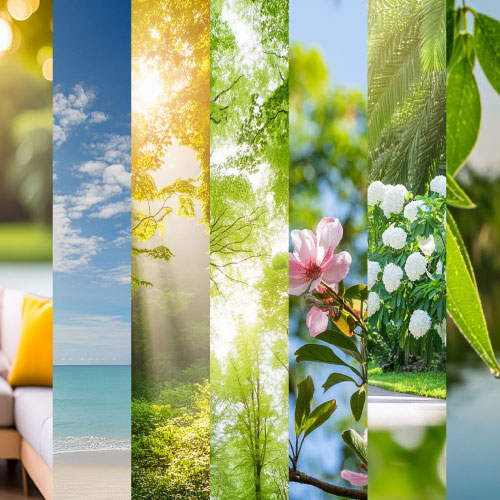
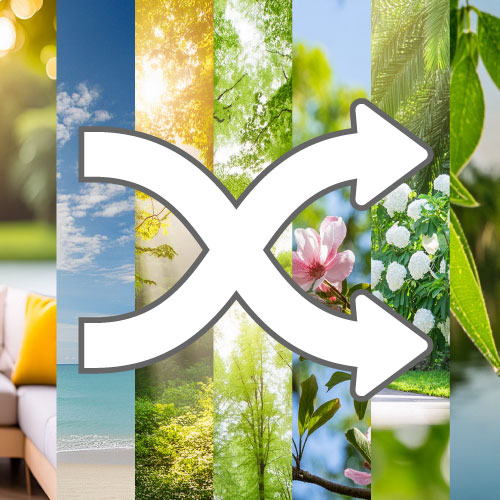
Add files via upload

diff --git a/index.html b/index.html
@@ -11,7 +11,9 @@
 
 <body>
 <div class="wrap">
+
     <nav class="left-navi">
+        <img src="img/rogo.png">
         <ul>
             <li><span class="material-symbols-outlined">
                 schedule
@@ -26,14 +28,14 @@
         <ul>
             <li>About</li>
             <li>Credit</li>
-            <li><img src="img/living.jpg"></li>
-            <li><img src="img/sea.jpg"></li>
-            <li><img src="img/forest.jpg"></li>
-            <li><img src="img/green.jpg"></li>
-            <li><img src="img/flower1.jpg"></li>
-            <li><img src="img/flower2.jpg"></li>
-            <li><img src="img/waterdrop.jpg"></li>
-            <li><img src="img/rondom.jpg"></li>
+            <li><img src="img/living.jpg" class="button" onclick="goClick()"></li>
+            <li><img src="img/sea.jpg" class="button" onclick="goClick()"></li>
+            <li><img src="img/forest.jpg" class="button" onclick="goClick()"></li>
+            <li><img src="img/green.jpg" class="button" onclick="goClick()"></li>
+            <li><img src="img/flower1.jpg" class="button" onclick="goClick()"></li>
+            <li><img src="img/flower2.jpg" class="button" onclick="goClick()"></li>
+            <li><img src="img/waterdrop.jpg" class="button" onclick="goClick()"></li>
+            <li><img src="img/rondom.jpg" class="button" onclick="goClick()"></li>
         </ul>
     </nav>
     <div class="mainvisual"></div>

diff --git a/style.css b/style.css
@@ -22,9 +22,14 @@
   text-align: left;
   z-index: 2;
   height: 100vh;
+  text-align: center;
+}
+.left-navi img{
+  height: 60%;
+  padding-top: 10%;
 }
 .left-navi ul{
-  text-align: center;
+  height: 40%;
 }
 .mainvisual{
   height: 100vh;
